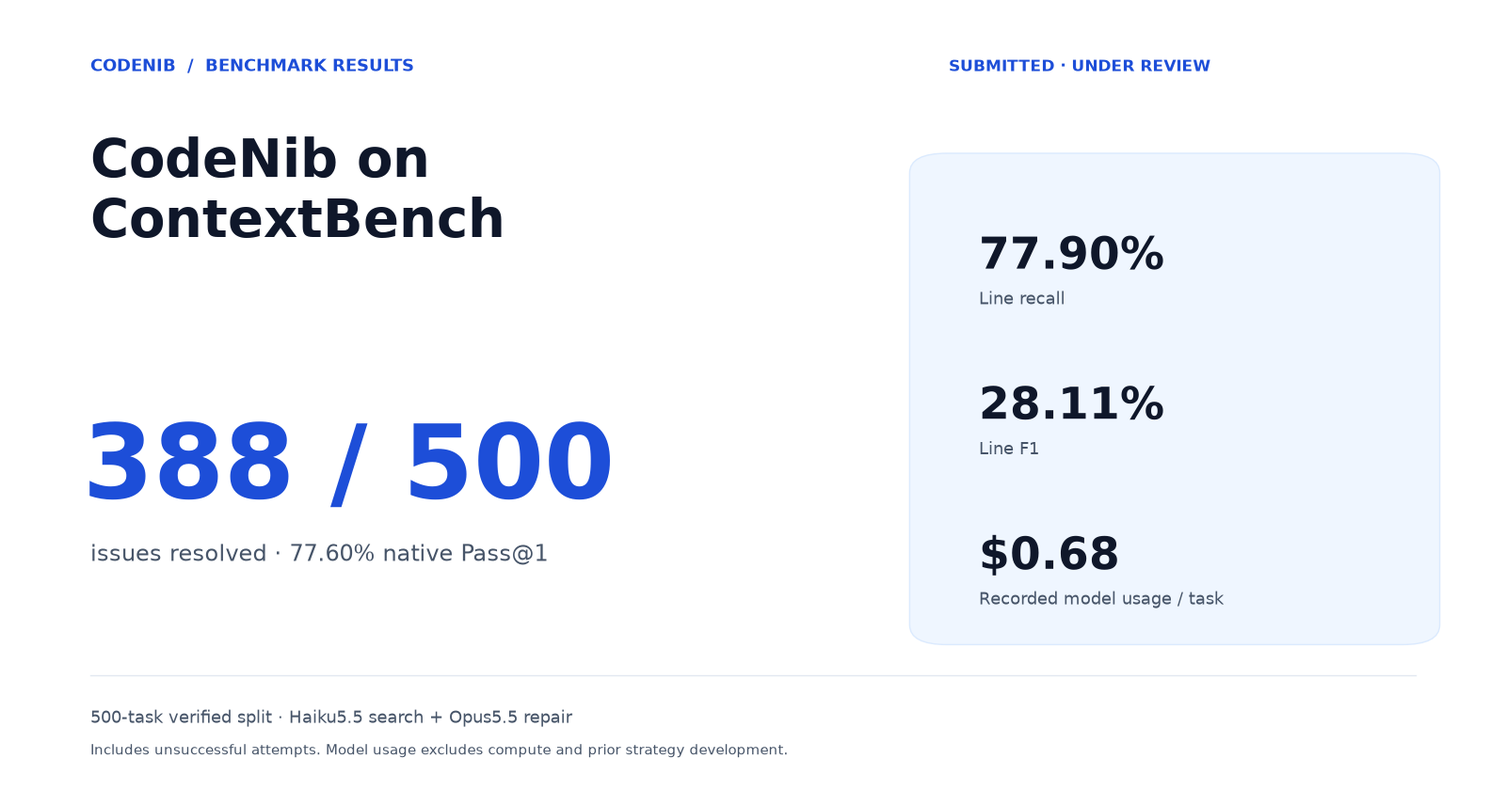
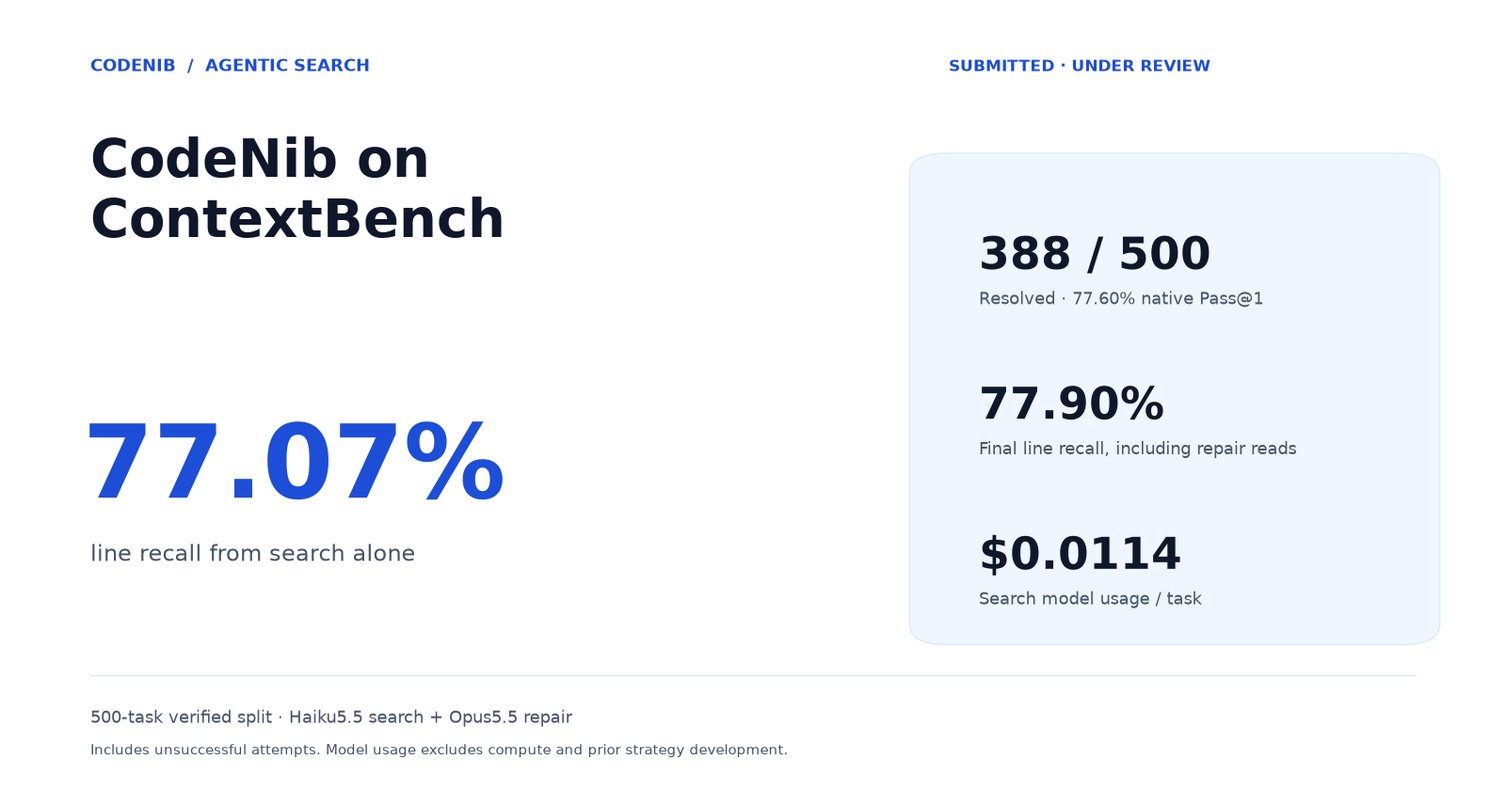
docs(blog): explain search coverage and role routing

diff --git a/landing/blogs/contextbench-500-tasks/index.html b/landing/blogs/contextbench-500-tasks/index.html
@@ -7,28 +7,28 @@ SPDX-License-Identifier: Apache-2.0
 <head>
   <meta charset="utf-8">
   <meta name="viewport" content="width=device-width, initial-scale=1">
-  <title>CodeNib on ContextBench: 388 of 500 Issues Resolved — CodeNib</title>
-  <meta name="description" content="CodeNib's 500-task ContextBench submission: 77.6% native Pass@1, 77.9% line recall, and $0.68 in recorded model usage per task. How the agent works and what the results mean.">
+  <title>CodeNib on ContextBench: 77% Line Recall Before Repair — CodeNib</title>
+  <meta name="description" content="How CodeNib's complementary search agents reach 77.07% line recall before repair: fixed role routing, iterative source search, and a versioned navigation handoff on 500 ContextBench tasks.">
   <meta name="author" content="CodeNib Team">
-  <meta property="og:title" content="CodeNib on ContextBench: 388 of 500 Issues Resolved">
-  <meta property="og:description" content="Two search workers, source on demand, and an Opus repair agent. Results from 500 ContextBench tasks; leaderboard review pending.">
+  <meta property="og:title" content="CodeNib on ContextBench: 77% Line Recall Before Repair">
+  <meta property="og:description" content="Inside the coordinator and agentic search loop: 77.07% line recall from search alone, then 388 of 500 tasks resolved. Leaderboard review pending.">
   <meta property="og:image" content="https://codenib.ai/assets/blogs/contextbench-500-tasks.png">
   <meta property="og:image:width" content="1600">
   <meta property="og:image:height" content="840">
-  <meta property="og:image:alt" content="CodeNib's submitted ContextBench results: 388 of 500 tasks resolved, 77.9% line recall, 28.1% line F1, and $0.68 recorded model usage per task. Under review.">
+  <meta property="og:image:alt" content="CodeNib on 500 ContextBench tasks: 77.07% line recall before repair, 77.90% final line recall, 388 tasks resolved, and $0.0114 recorded search model usage per task. Under review.">
   <meta property="og:type" content="article">
   <meta property="og:locale" content="en_US">
   <meta property="og:url" content="https://codenib.ai/blogs/contextbench-500-tasks/">
   <meta property="article:published_time" content="2026-10-21T20:00:00Z">
-  <meta property="article:modified_time" content="2026-10-21T20:00:00Z">
+  <meta property="article:modified_time" content="2026-10-21T21:17:41Z">
   <meta property="article:section" content="Coding agents">
   <meta property="article:tag" content="ContextBench">
   <meta property="article:tag" content="Code retrieval">
   <meta name="twitter:card" content="summary_large_image">
-  <meta name="twitter:title" content="CodeNib on ContextBench: 388 of 500 Issues Resolved">
-  <meta name="twitter:description" content="77.6% native Pass@1 on 500 submitted tasks. The search, source handoff, repair loop, and evidence behind the result. Leaderboard review pending.">
+  <meta name="twitter:title" content="CodeNib on ContextBench: 77% Line Recall Before Repair">
+  <meta name="twitter:description" content="How two Haiku search agents and CodeNib's coordinator find relevant code before an Opus repair agent writes a patch. 500 tasks; leaderboard review pending.">
   <meta name="twitter:image" content="https://codenib.ai/assets/blogs/contextbench-500-tasks.png">
-  <meta name="twitter:image:alt" content="CodeNib's submitted ContextBench results: 388 of 500 tasks resolved, 77.9% line recall, 28.1% line F1, and $0.68 recorded model usage per task. Under review.">
+  <meta name="twitter:image:alt" content="CodeNib on 500 ContextBench tasks: 77.07% line recall before repair, 77.90% final line recall, 388 tasks resolved, and $0.0114 recorded search model usage per task. Under review.">
   <link rel="canonical" href="https://codenib.ai/blogs/contextbench-500-tasks/">
   <link rel="icon" href="/assets/codenib-icon.svg" type="image/svg+xml">
   <link rel="stylesheet" href="/assets/blogs.css">
@@ -37,11 +37,11 @@ SPDX-License-Identifier: Apache-2.0
   {
     "@context": "https://schema.org",
     "@type": "BlogPosting",
-    "headline": "CodeNib on ContextBench: 388 of 500 Issues Resolved",
-    "description": "CodeNib's 500-task ContextBench submission: 77.6% native Pass@1, 77.9% line recall, and $0.68 in recorded model usage per task. Leaderboard review pending.",
+    "headline": "CodeNib on ContextBench: 77% Line Recall Before Repair",
+    "description": "How complementary agentic search reaches 77.07% line recall on 500 ContextBench tasks before repair, followed by 388 resolved tasks. Leaderboard review pending.",
     "image": "https://codenib.ai/assets/blogs/contextbench-500-tasks.png",
     "datePublished": "2026-10-21T20:00:00Z",
-    "dateModified": "2026-10-21T20:00:00Z",
+    "dateModified": "2026-10-21T21:17:41Z",
     "inLanguage": "en",
     "mainEntityOfPage": "https://codenib.ai/blogs/contextbench-500-tasks/",
     "author": { "@type": "Organization", "name": "CodeNib Team", "url": "https://codenib.ai/" },
@@ -71,64 +71,87 @@ SPDX-License-Identifier: Apache-2.0
         <div class="post-meta">
           <span class="tag">Coding agents</span>
           <time datetime="2026-10-21">October 21, 2026</time>
-          <span>7 min read</span>
+          <span>9 min read</span>
         </div>
-        <h1 id="article-title">CodeNib on ContextBench: 388 of 500 Issues Resolved</h1>
-        <p class="deck">A complementary search pair, source on demand, and a repair agent—evaluated together on 500 repository issues across eight languages.</p>
+        <h1 id="article-title">CodeNib on ContextBench: 77% Line Recall Before Repair</h1>
+        <p class="deck">How two search agents find relevant code, how the coordinator routes their work, and how source locations become a handoff to a repair agent.</p>
       </header>
 
       <div class="article-body">
-        <p>A coding agent needs to find the right code and turn that understanding into a working fix. In our ContextBench run, CodeNib resolved <strong>388 of 500 tasks</strong>, with <strong>77.90% line recall</strong> and an average of <strong>$0.68 in recorded model usage per task</strong>, including unsuccessful attempts.</p>
+        <p>CodeNib's search-only stage reached <strong>77.07% line recall on 500 ContextBench tasks</strong>, using two workers that explored source without editing code or running repairs. They used iterative file discovery, grep and source reads, with recorded search model usage of about <strong>$0.0114 per task</strong>. The complete search-and-repair system resolved <strong>388 of 500 tasks</strong>.</p>
 
         <p class="submission-status"><a href="https://github.com/ContextBench/contextbench.github.io/pull/4">Submitted · Leaderboard review pending</a><span>These are our submitted results; an official ranking has not been assigned.</span></p>
 
-        <dl class="result-metrics" aria-label="Results on all 500 submitted tasks">
+        <dl class="result-metrics" aria-label="Search and repair results on all 500 submitted tasks">
+          <div><dt>Search line recall</dt><dd>77.07%<span>Before repair</span></dd></div>
+          <div><dt>Final line recall</dt><dd>77.90%<span>Including confirmed repair reads</span></dd></div>
           <div><dt>Native Pass@1</dt><dd>77.60%<span>388 / 500 resolved</span></dd></div>
-          <div><dt>Line recall</dt><dd>77.90%<span>Annotated code covered</span></dd></div>
-          <div><dt>Line F1</dt><dd>28.11%<span>Recall and precision</span></dd></div>
-          <div><dt>Model usage / task</dt><dd>$0.68<span>Search + repair</span></dd></div>
+          <div><dt>Search usage / task</dt><dd>$0.0114<span>Two Haiku workers; model usage only</span></dd></div>
         </dl>
 
-        <p>The system pairs two Claude Haiku5.5 search workers with Claude Opus5.5 in an adapted mini SWE-agent repair loop. The <a href="https://github.com/sysevol-ai/contextbench.github.io/blob/e317010f0268eb765dc4dc4452ea3da3d3275dce/submissions/2026-10-19_codenib-agent-haiku55-opus55/README.md">public submission</a> contains the configuration, scores and raw trajectories. The evaluation set was exposed during development, so this is a result on that known population, rather than an estimate of performance on unseen issues.</p>
+        <p>The search workers use Claude Haiku5.5; Claude Opus5.5 handles repair through an adapted mini SWE-agent loop. The <a href="https://github.com/sysevol-ai/contextbench.github.io/blob/e317010f0268eb765dc4dc4452ea3da3d3275dce/submissions/2026-10-19_codenib-agent-haiku55-opus55/README.md">public submission</a> contains the configuration and evidence. All 500 task annotations had been exposed during development, so the result describes that known population.</p>
 
         <nav class="article-contents" aria-label="In this article">
-          <a href="#what-is-measured">What the scores measure</a>
-          <a href="#how-it-works">How the agent works</a>
+          <a href="#search-only">Search before repair</a>
+          <a href="#how-it-works">Routing and the search loop</a>
+          <a href="#why-search">Why this can cover more code</a>
           <a href="#results">Results by task source</a>
           <a href="#cost">Where the cost goes</a>
           <a href="#scope">Scope and evidence</a>
         </nav>
 
-        <h2 id="what-is-measured">A fix and the code behind it</h2>
-        <p><a href="https://contextbench.github.io/">ContextBench</a> evaluates how coding agents find and use repository context while resolving issues. Alongside the final patch, it scores overlap with human-annotated relevant code at file, block and line levels. That makes it possible to ask two separate questions: did the fix satisfy the task's test criteria, and how much of the relevant implementation did the agent find?</p>
-        <p>Our submission uses the <strong>500-task verified split</strong>. It contains tasks from SWE-Bench-Verified, SWE-Bench-Pro, SWE-PolyBench and Multi-SWE-Bench, covering C, C++, Go, Java, JavaScript, Python, Rust and TypeScript. The larger ContextBench dataset contains 1,136 tasks; the numbers in this article describe only our submitted 500.</p>
-        <p><strong>Native Pass@1</strong> is the fraction of attempts whose final patch passed the pinned task-specific grading criteria. It does not mean every test in each repository passed. <strong>Line recall</strong> measures how much annotated relevant code appears in the selected source context; precision measures how much selected code overlaps those annotations. F1 balances the two, calculated per task and then averaged.</p>
-
-        <div class="data-table compact" role="region" tabindex="0" aria-label="Final selected context metrics for all 500 tasks">
+        <h2 id="search-only">Most annotated coverage is found before repair</h2>
+        <p><a href="https://contextbench.github.io/">ContextBench</a> annotates source code relevant to repository issues. <strong>Line recall</strong> measures how much of that annotated code the system retrieves. Our 500-task verified split spans eight languages and four source benchmarks. We average each task's scores, keeping all 500 tasks in the denominator.</p>
+        <div class="data-table compact" role="region" tabindex="0" aria-label="Search-only and final context on the same 500 tasks">
           <table>
-            <caption class="sr-only">Final selected context metrics, macro averaged over all 500 tasks</caption>
-            <thead><tr><th scope="col">Context level</th><th scope="col">Recall</th><th scope="col">Precision</th><th scope="col">F1</th></tr></thead>
+            <caption class="sr-only">Line-level context metrics before and after repair, macro averaged over the same 500 tasks</caption>
+            <thead><tr><th scope="col">Stage</th><th scope="col">Recall</th><th scope="col">Precision</th><th scope="col">F1</th></tr></thead>
             <tbody>
-              <tr><th scope="row">File</th><td>87.99%</td><td>18.80%</td><td>27.88%</td></tr>
-              <tr><th scope="row">Block / symbol</th><td>85.18%</td><td>14.27%</td><td>21.61%</td></tr>
-              <tr><th scope="row">Line</th><td>77.90%</td><td>20.39%</td><td>28.11%</td></tr>
+              <tr><th scope="row">Search pair, before repair</th><td>77.07%</td><td>20.52%</td><td>28.16%</td></tr>
+              <tr><th scope="row">Final selected context</th><td>77.90%</td><td>20.39%</td><td>28.11%</td></tr>
             </tbody>
           </table>
         </div>
-        <p class="scope-note">Source: <a href="https://github.com/sysevol-ai/contextbench.github.io/blob/e317010f0268eb765dc4dc4452ea3da3d3275dce/submissions/2026-10-19_codenib-agent-haiku55-opus55/README.md#evaluation-setup-and-metric-definitions">submitted metrics and evaluation definitions</a>. All 500 tasks contribute to the averages, including the 112 unresolved attempts.</p>
+        <p>Adding confirmed original-source reads from repair increases recall by <strong>0.83 percentage points</strong>. The search phase already supplies most of the eventually covered annotated code. This is a <a href="https://github.com/sysevol-ai/contextbench.github.io/blob/e317010f0268eb765dc4dc4452ea3da3d3275dce/submissions/2026-10-19_codenib-agent-haiku55-opus55/RESULTS.md#search-stage-and-final-selected-context-on-the-same-500-ids">comparison of stages in one pipeline</a>; there is no search-only Pass@1 result.</p>
+        <p>Search-only here means two agents repeatedly choosing where to search and what to read, before any patch generation. Its context is the union of source actually observed by either worker. That cumulative search context can be much larger than the compact navigation message passed to the repair model.</p>
 
-        <h2 id="how-it-works">Search broadly, carry locations, read on demand</h2>
-        <p>The core design is to pass source locations between models and fetch the actual code when the next model needs it. A compact handoff can point to a relevant implementation without filling the repair agent's initial context with every search result.</p>
+        <h2 id="how-it-works">Fixed role routing, adaptive search inside each worker</h2>
+        <p>CodeNib's coordinator decides which role runs next and what information crosses model windows. In this run, that routing is fixed: <strong>first Haiku search → complementary Haiku scout → Opus repair</strong>. Within each search, the model chooses its next tool call from the evidence it has just read.</p>
+        <figure class="search-workflow" aria-labelledby="workflow-caption">
+          <figcaption id="workflow-caption">One task, two separate search windows</figcaption>
+          <ol>
+            <li><strong>First Haiku worker</strong><span>Original issue → plan → glob / grep / read → observe → next plan</span></li>
+            <li><strong>CodeNib coordinator</strong><span>Observed file/range locations → versioned navigation, capped at 2,048 tokens</span></li>
+            <li><strong>Complementary Haiku scout</strong><span>Original issue + navigation → its own search/read loop to investigate gaps</span></li>
+            <li><strong>CodeNib coordinator</strong><span>Authenticate and union observed source → navigation for repair</span></li>
+            <li><strong>Opus repair agent</strong><span>Fetch needed source → edit → self-test → final patch for native grading</span></li>
+          </ol>
+        </figure>
+        <p>This is role routing with two search workers on every task. The submitted system does not use an issue classifier to choose Haiku or Opus as the search model. The 500-task result therefore cannot establish a gain from dynamic model selection.</p>
+
         <ol class="agent-stages">
-          <li><h3>Find an initial path</h3><p>A Haiku worker reads the issue and searches the pinned repository with CodeNib's file discovery, grep and source-reading tools.</p></li>
-          <li><h3>Look for what the first search missed</h3><p>A second Haiku worker receives the issue and bounded navigation metadata from the first worker. In its own context window, it inspects complementary entry points, callers, tests and configuration.</p></li>
-          <li><h3>Hand over locations, then repair</h3><p>CodeNib combines the observed ranges into at most 2,048 tokens of navigation metadata, with source identity and explicit omissions. Opus uses source-reading tools to inspect the code it needs, then edits and runs self-tests through the mini SWE-agent container shell.</p></li>
-          <li><h3>Grade the patch and account for the reads</h3><p>The native evaluator grades the unchanged final candidate patch. CodeNib assembles selected context from search observations and confirmed reads of the original source, and includes model usage from every attempt.</p></li>
+          <li><h3>The first worker follows evidence through the repository</h3><p>The issue supplies an initial hypothesis. <code>glob</code> finds likely files; <code>grep</code> locates names and uses; <code>read</code> exposes implementation behavior. New identifiers, called helpers and unanswered questions drive the next search. The prompt asks for relevant functions, callers, configuration, interfaces and validation tests, with up to 20 worker turns. The worker can revise an unproductive query and continue a truncated read.</p></li>
+          <li><h3>The coordinator creates a map of observed locations</h3><p>It merges duplicate or adjacent observed ranges and encodes file paths, line intervals and handles bound to the source version. At most 2,048 tokens of this navigation enter the scout's prompt, alongside the unchanged issue. Omitted intervals are counted explicitly. Source bodies and the first worker's generated explanation stay outside this handoff.</p></li>
+          <li><h3>The scout searches for missing evidence</h3><p>The scout gets a separate model window and an explicit complementary role: investigate connected entry points, callers or callees, alternate paths, tests and configuration that the first search may have missed. It reads source itself whenever it needs to understand behavior. Earlier locations are anchors; revisiting them is allowed, and the navigation is explicitly incomplete.</p></li>
+          <li><h3>The coordinator unions observations and hands off to repair</h3><p>After authenticating both workers against one source version, CodeNib unions their observed intervals. Overlapping lines count once. It creates another bounded navigation message from this combined search context for Opus. The repair agent then requests source through <code>codenib-read</code> and <code>codenib-grep</code>, edits code, and runs self-tests through the container shell.</p></li>
         </ol>
-        <p>The 2,048-token limit applies to the initial navigation, rather than all later source reads. Source locations bind to a repository version, so the receiving agent can request the intended code. For evaluation, a location or generated summary alone earns no source-read credit: the source must appear in a confirmed model input.</p>
-        <p>This run evaluates that <a href="https://github.com/sysevol-ai/contextbench.github.io/blob/e317010f0268eb765dc4dc4452ea3da3d3275dce/submissions/2026-10-19_codenib-agent-haiku55-opus55/README.md#system-and-context-strategy">complete agent and model combination</a>. Embeddings, Jev reranking and graph expansion were outside the measured route. The result therefore does not establish an isolated gain from any of those CodeNib capabilities.</p>
+        <p>The navigation cap limits metadata at model boundaries. Source bodies read later have their own tool limits; they do not share a total 2,048-token source budget. For evaluation, a location or summary alone earns no source credit: the source must appear in a confirmed model input. The final selected context retains search observations and adds confirmed original-version repair reads. This is a system-wide record of observed source; Opus does not receive the whole union as an initial code dump.</p>
+        <p class="scope-note">Inspect the pinned <a href="https://github.com/sysevol-ai/CodeNib/blob/25d4580c1d5b0e1fd90bcd1483ba3e31e04a770d/scripts/benchmark_context_agent.py#L71-L90">search instructions</a>, <a href="https://github.com/sysevol-ai/CodeNib/blob/25d4580c1d5b0e1fd90bcd1483ba3e31e04a770d/scripts/contextbench_search_pair.py">scout navigation and source union</a>, and <a href="https://github.com/sysevol-ai/CodeNib/blob/25d4580c1d5b0e1fd90bcd1483ba3e31e04a770d/scripts/contextbench_search_pair_solver.py">repair handoff</a>.</p>
+
+        <div class="callout">
+          <p class="callout-label">An illustrative search</p>
+          <p>Suppose an issue says a retry setting is ignored. The first worker might find the setting's name, read the request path and follow the helper that consumes it. Given those locations, the scout might inspect configuration loading, alternate callers and tests that override the default. Each discovery changes the next query. This example explains the search policy; it is not a recorded benchmark trajectory.</p>
+        </div>
+
+        <h2 id="why-search">Why this can cover more relevant code</h2>
+        <p><strong>Search adapts to code that has actually been read.</strong> An issue may name a symptom while the relevant helper uses different vocabulary. Following identifiers, interfaces and call sites gives the model new search terms beyond the original issue text. Caller relationships in this route are investigated through source tools; no graph expansion is enabled.</p>
+        <p><strong>The second window has an explicit coverage task.</strong> Its job is to look for evidence missing from the first investigation. The coordinator preserves both workers' observed source, so an additional relevant span can add coverage without displacing an earlier one. Deduplication prevents double counting; it does not prevent workers from reading the same code.</p>
+        <p><strong>The search record retains cumulative reads.</strong> It has no fixed top-k chunk selection or 4K final-source cap. That supports broad coverage, with a visible precision tradeoff: search-only line precision is 20.52% and F1 is 28.16%. These scores measure overlap with annotations; they do not establish that every other line read was useless.</p>
+        <p>Those are design reasons to expect broader coverage. The full 500-task run evaluates them together. In a <a href="https://docs.codenib.ai/assets/contextbench_search_pair_independent_summary.json">separate 32-task search study</a>, one Haiku worker reached 33.98% line recall, two independent searches reached 38.82%, and the complementary pair reached 40.00%. The complementary pair's advantage over a plain repeat was +1.17 points, with a 95% repository-cluster interval of [−2.41, +5.12]. The study supports investigating a second search window; it does not establish a stable extra gain from the complementary policy or metadata alone. Those 32 tasks are a different population from the submitted 500.</p>
+        <p>The measured route uses file discovery, grep and reads throughout. Embeddings, Jev reranking and graph expansion were outside it. The result measures the <a href="https://github.com/sysevol-ai/contextbench.github.io/blob/e317010f0268eb765dc4dc4452ea3da3d3275dce/submissions/2026-10-19_codenib-agent-haiku55-opus55/README.md#system-and-context-strategy">complete search/repair configuration</a>, including its models, prompts and budgets.</p>
 
         <h2 id="results">388 resolved, with all 500 attempts counted</h2>
+        <p><strong>Native Pass@1</strong> is the fraction of attempts whose final patch passed the pinned task-specific grading criteria. It does not mean every test in each repository passed. All 112 unresolved attempts remain included. The evaluated tasks span C, C++, Go, Java, JavaScript, Python, Rust and TypeScript.</p>
         <p>The overall resolution rate is <strong>77.60%</strong>. The source groups show where the outcome varies: 152 of 174 SWE-Bench-Verified tasks were resolved, compared with 34 of 54 SWE-Bench-Pro tasks. These groups have different repository, language and grading compositions; their differences describe this run rather than isolate a benchmark or language effect.</p>
         <figure class="cohort-figure">
           <div class="cohort-scroll" role="region" tabindex="0" aria-label="Resolution rates by task source; scroll horizontally on small screens">
@@ -152,7 +175,7 @@ SPDX-License-Identifier: Apache-2.0
         <p class="scope-note">Source: <a href="https://github.com/sysevol-ai/contextbench.github.io/blob/e317010f0268eb765dc4dc4452ea3da3d3275dce/submissions/2026-10-19_codenib-agent-haiku55-opus55/RESULTS.md">frozen result breakdown</a>, which also includes all eight language slices and their sample sizes.</p>
 
         <p>The context scores expose a tradeoff that the resolution rate alone would hide. Final line recall is high at <strong>77.90%</strong>, while line precision is <strong>20.39%</strong>. The agent found much of the annotated code, but its selected context also extended well beyond those annotations. F1 remains <strong>28.11%</strong>; useful surrounding code may be unannotated, but broad reading is still a reason to inspect precision alongside recall.</p>
-        <p>The search pair had already reached 77.07% line recall before repair. Adding confirmed repair reads raised it to 77.90%, while F1 moved from 28.16% to 28.11%. This <a href="https://github.com/sysevol-ai/contextbench.github.io/blob/e317010f0268eb765dc4dc4452ea3da3d3275dce/submissions/2026-10-19_codenib-agent-haiku55-opus55/RESULTS.md#search-stage-and-final-selected-context-on-the-same-500-ids">comparison of stages</a> shows that the search workers found most of the eventually covered annotated source. It does not tell us how many fixes a different search strategy would have produced.</p>
+        <p>Precision measures the share of selected source overlapping the annotations. F1 balances recall and precision; all context means average per-task scores, including per-task F1. A high search recall and a high repair rate are distinct outcomes. Without a matched repair comparison, this run cannot assign the 77.60% resolution rate to one retrieval component.</p>
 
         <h2 id="cost">Almost all model usage goes into repair</h2>
         <p>Recorded search-plus-repair model usage totals <strong>$338.88</strong>, or <strong>$0.6778 per task</strong>. The two search workers account for $5.68 across the run; repair accounts for $333.20, or <strong>98.32%</strong> of recorded model usage. Failures and stopped attempts stay in both the cost and outcome totals.</p>

diff --git a/landing/blogs/index.html b/landing/blogs/index.html
@@ -14,14 +14,14 @@ SPDX-License-Identifier: Apache-2.0
   <meta property="og:image" content="https://codenib.ai/assets/blogs/contextbench-500-tasks.png">
   <meta property="og:image:width" content="1600">
   <meta property="og:image:height" content="840">
-  <meta property="og:image:alt" content="CodeNib's latest article: 388 of 500 ContextBench tasks resolved, with leaderboard review pending.">
+  <meta property="og:image:alt" content="CodeNib's latest article: how agentic search reaches 77.07% line recall on 500 ContextBench tasks before repair. Leaderboard review pending.">
   <meta property="og:type" content="website">
   <meta property="og:url" content="https://codenib.ai/blogs/">
   <meta name="twitter:card" content="summary_large_image">
   <meta name="twitter:title" content="CodeNib Blog">
   <meta name="twitter:description" content="Technical notes on repository analysis, semantic graphs, native query paths, and source-grounded agent context.">
   <meta name="twitter:image" content="https://codenib.ai/assets/blogs/contextbench-500-tasks.png">
-  <meta name="twitter:image:alt" content="CodeNib's latest article: 388 of 500 ContextBench tasks resolved, with leaderboard review pending.">
+  <meta name="twitter:image:alt" content="CodeNib's latest article: how agentic search reaches 77.07% line recall on 500 ContextBench tasks before repair. Leaderboard review pending.">
   <link rel="canonical" href="https://codenib.ai/blogs/">
   <link rel="icon" href="/assets/codenib-icon.svg" type="image/svg+xml">
   <link rel="stylesheet" href="/assets/blogs.css">
@@ -72,15 +72,15 @@ SPDX-License-Identifier: Apache-2.0
       <div class="wrap">
         <h2 class="section-label" id="latest-heading">Latest</h2>
         <article>
-          <a class="featured-post" href="/blogs/contextbench-500-tasks/" aria-label="Read CodeNib on ContextBench: 388 of 500 Issues Resolved">
+          <a class="featured-post" href="/blogs/contextbench-500-tasks/" aria-label="Read CodeNib on ContextBench: 77% Line Recall Before Repair">
             <div class="post-copy">
               <div class="post-meta">
                 <span class="tag">Coding agents</span>
                 <time datetime="2026-10-21">October 21, 2026</time>
-                <span>7 min read</span>
+                <span>9 min read</span>
               </div>
-              <h3>CodeNib on ContextBench: 388 of 500 Issues Resolved</h3>
-              <p class="summary">77.6% native Pass@1, 77.9% line recall, and $0.68 in recorded model usage per task. How the search and repair agent works, with public evidence and leaderboard review pending.</p>
+              <h3>CodeNib on ContextBench: 77% Line Recall Before Repair</h3>
+              <p class="summary">Search alone reaches 77.07% line recall. Inside the coordinator, complementary agentic searches and source handoff behind CodeNib's 500-task result. Leaderboard review pending.</p>
               <span class="read-more">Read the article <span aria-hidden="true">→</span></span>
             </div>
             <div class="post-art">

diff --git a/landing/index.html b/landing/index.html
@@ -418,14 +418,14 @@ codenib codegraph init /path/to/your/repo</code></pre>
     <div class="wrap">
       <h2 class="reveal">From the blog</h2>
       <p class="section-sub reveal">Implementation notes and measured tradeoffs in source-linked repository analysis.</p>
-      <a class="latest-card reveal" href="/blogs/contextbench-500-tasks/" aria-label="Read CodeNib on ContextBench: 388 of 500 Issues Resolved">
+      <a class="latest-card reveal" href="/blogs/contextbench-500-tasks/" aria-label="Read CodeNib on ContextBench: 77% Line Recall Before Repair">
         <div class="latest-copy">
           <div class="latest-meta">
             <span class="tag">Coding agents</span>
             <time datetime="2026-10-21">October 21, 2026</time>
           </div>
-          <h3>CodeNib on ContextBench: 388 of 500 Issues Resolved</h3>
-          <p>77.6% native Pass@1, 77.9% line recall, and $0.68 in recorded model usage per task. The search and repair agent, its public evidence, and the submission awaiting leaderboard review.</p>
+          <h3>CodeNib on ContextBench: 77% Line Recall Before Repair</h3>
+          <p>Search alone reaches 77.07% line recall. How CodeNib coordinates two agentic searches, hands off source locations, and resolves 388 of 500 tasks. The submission is awaiting leaderboard review.</p>
           <span class="latest-more">Read the article →</span>
         </div>
         <div class="latest-art">

diff --git a/landing/assets/blogs/contextbench-results.css b/landing/assets/blogs/contextbench-results.css
@@ -78,6 +78,62 @@
   margin: 26px 0;
 }
 
+.search-workflow {
+  margin: 28px 0;
+  border: 1px solid var(--line);
+  border-radius: 14px;
+  background: var(--subtle);
+  padding: 22px;
+}
+
+.search-workflow figcaption {
+  margin-bottom: 18px;
+  color: var(--ink);
+  font-size: 16px;
+  font-weight: 600;
+}
+
+.search-workflow ol {
+  margin: 0;
+  padding-left: 24px;
+}
+
+.search-workflow li {
+  margin: 0;
+  padding: 0 0 15px 7px;
+}
+
+.search-workflow li + li {
+  border-top: 1px solid var(--line);
+  padding-top: 15px;
+}
+
+.search-workflow li:last-child {
+  padding-bottom: 0;
+}
+
+.search-workflow li::marker {
+  color: var(--accent-dark);
+  font-size: 13px;
+  font-weight: 600;
+}
+
+.search-workflow strong,
+.search-workflow span {
+  display: block;
+}
+
+.search-workflow strong {
+  font-size: 15px;
+}
+
+.search-workflow span {
+  margin-top: 5px;
+  color: var(--ink-2);
+  font-size: 14px;
+  line-height: 1.65;
+}
+
 .agent-stages li {
   margin-block: 20px;
   padding-left: 7px;

diff --git a/landing/README.md b/landing/README.md
@@ -177,6 +177,11 @@ To publish a blog post, add `landing/blogs/<slug>/index.html`, add its card to
 featured article, and copy its public images into `landing/assets/blogs/`.
 Follow the existing article template for the canonical URL, language,
 publication date, social metadata, and JSON-LD.
+Benchmark articles should explain the measured mechanism: what each role
+receives, how it chooses its next action, and what reaches the next role.
+Distinguish search-only coverage from repair outcomes, and fixed role routing
+from dynamic model selection. Tie the explanation to the executed policy and
+separate design rationale from gains established by a controlled comparison.
 Use public documentation URLs and pinned source links; do not link directly
 to documents excluded from the public documentation site.
 
